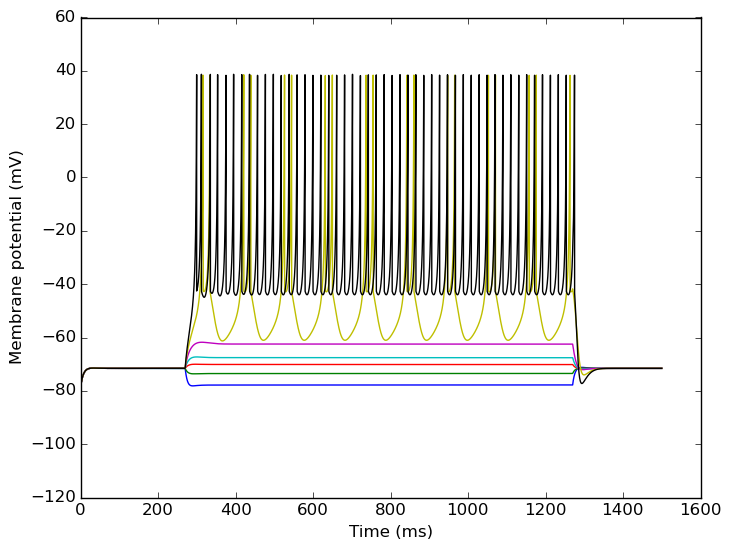
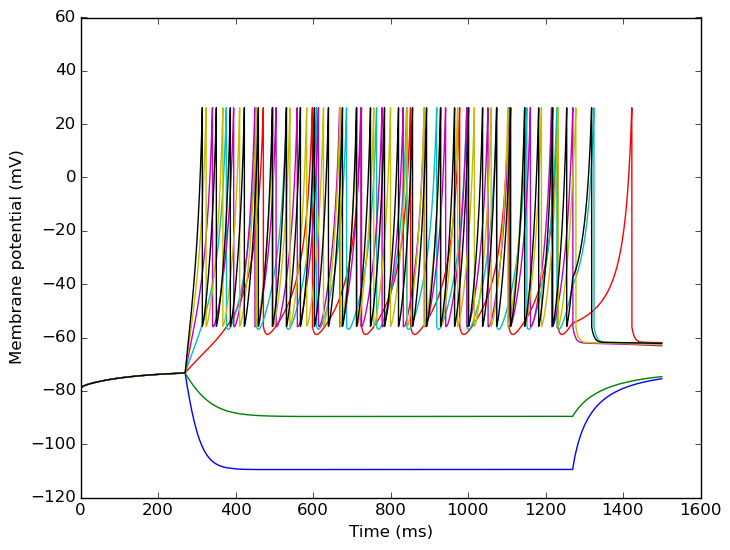
Retuned aspiny example

diff --git a/CellTypesDatabase/tune/tuneAllen.py b/CellTypesDatabase/tune/tuneAllen.py
@@ -416,7 +416,7 @@ if __name__ == '__main__':
         
         sweep_numbers, weights_1, target_data_1, weights_2, target_data_2 = get_2stage_target_values(dataset)
 
-        scale1 = 1
+        scale1 = 2
         scale2 = 1
 
         
@@ -448,7 +448,7 @@ if __name__ == '__main__':
                                 simulator = simulator,
                                 nogui = nogui,
                                 show_plot_already = False,
-                                seed = 1234,
+                                seed = 12345,
                                 known_target_values = {},
                                 dry_run = False)
         
